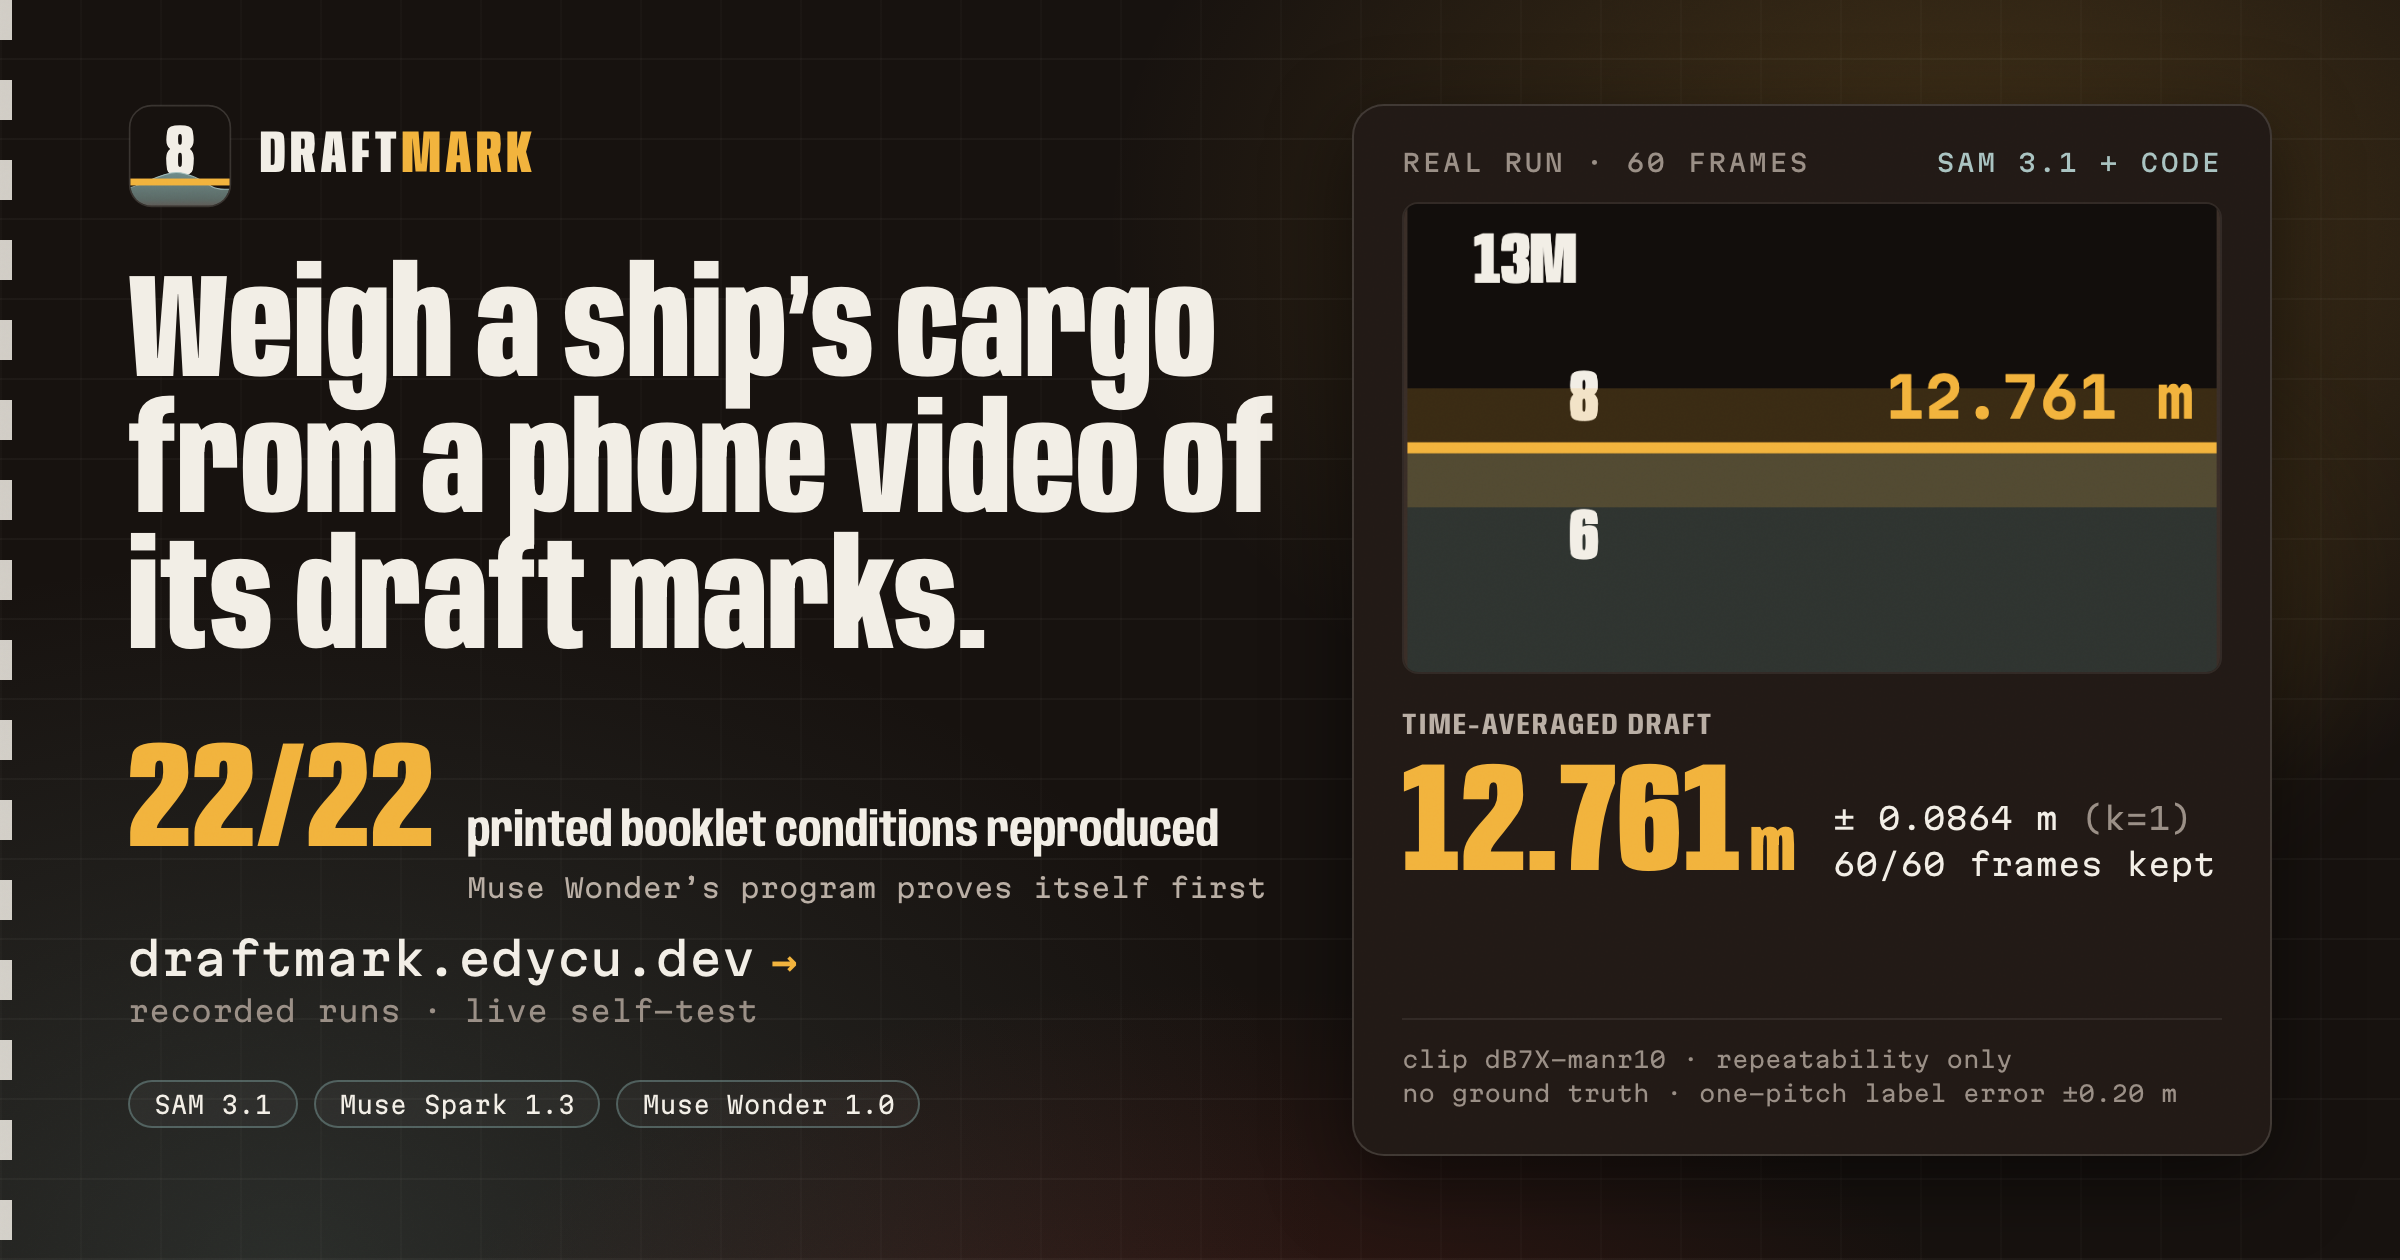
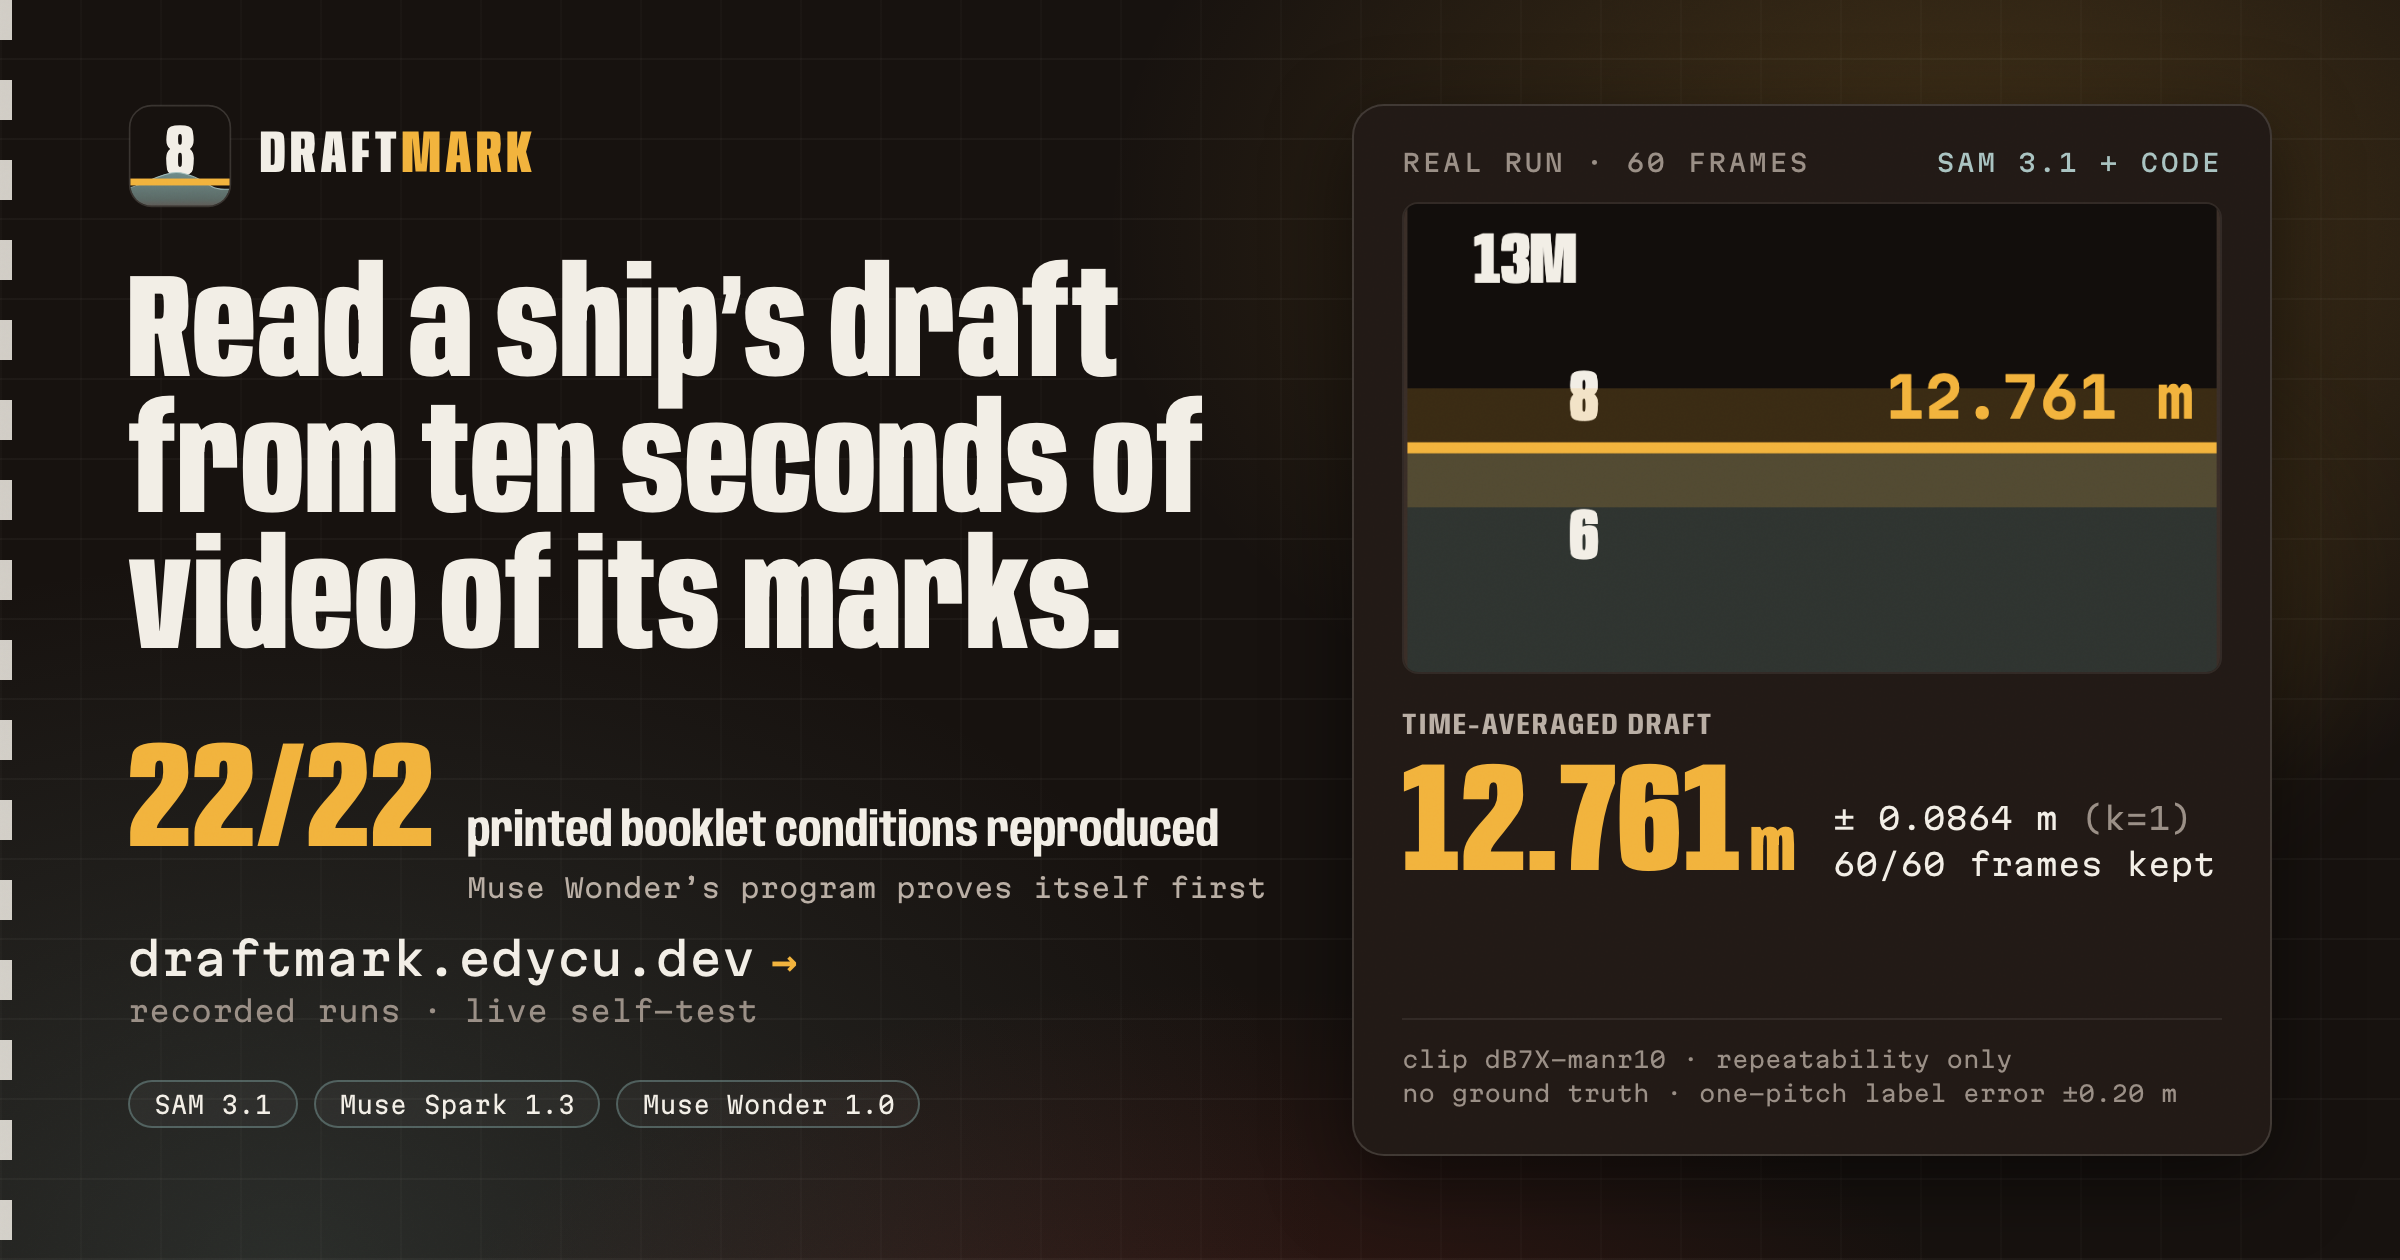
Social card: say what the runs show (read a ship's draft from ten seconds of video), descriptions within card limits, card v6

Changed region(s): [[0.0625, 0.1857, 0.5312, 0.5262]]

diff --git a/app/layout.tsx b/app/layout.tsx
@@ -9,16 +9,16 @@ const data = Martian_Mono({ subsets: ["latin"], variable: "--ff-data", display: 
 
 // Social card: public/og-image.png is EXACTLY 1200x630 (< 500 KB). Bump ?v= whenever the image changes —
 // platforms cache cards by URL, so a regenerated image without a new query string is never seen.
-const OG_IMAGE = "/og-image.png?v=5";
+const OG_IMAGE = "/og-image.png?v=6";
 const CARD_TITLE = "DraftMark — read a ship's draft from ten seconds of video";
 const CARD_DESCRIPTION =
-  "SAM 3.1 finds the marks and water; code averages the waterline; Muse Wonder 1.0 writes the survey program, the booklet grades it.";
+  "SAM 3.1 finds the marks and water; code averages the waterline; Muse Wonder 1.0 writes the program, the booklet grades it.";
 
 export const metadata: Metadata = {
   metadataBase: new URL("https://draftmark.edycu.dev"),
   title: "DraftMark — read a ship's draft marks from ten seconds of video",
   description:
-    "SAM 3.1 finds the marks and the water; code averages the waterline through the swell; Muse Wonder 1.0 writes and proves a survey program for the ship; code prints every number.",
+    "SAM 3.1 finds the marks and water; code averages the waterline through the swell; Muse Wonder 1.0 writes the ship's survey program; the booklet grades it.",
   authors: [{ name: "Edy Cu Tjong", url: "https://github.com/edycutjong" }],
   creator: "Edy Cu Tjong",
   icons: { icon: [{ url: "/icon.svg", type: "image/svg+xml" }], apple: "/icon-512.png" },
